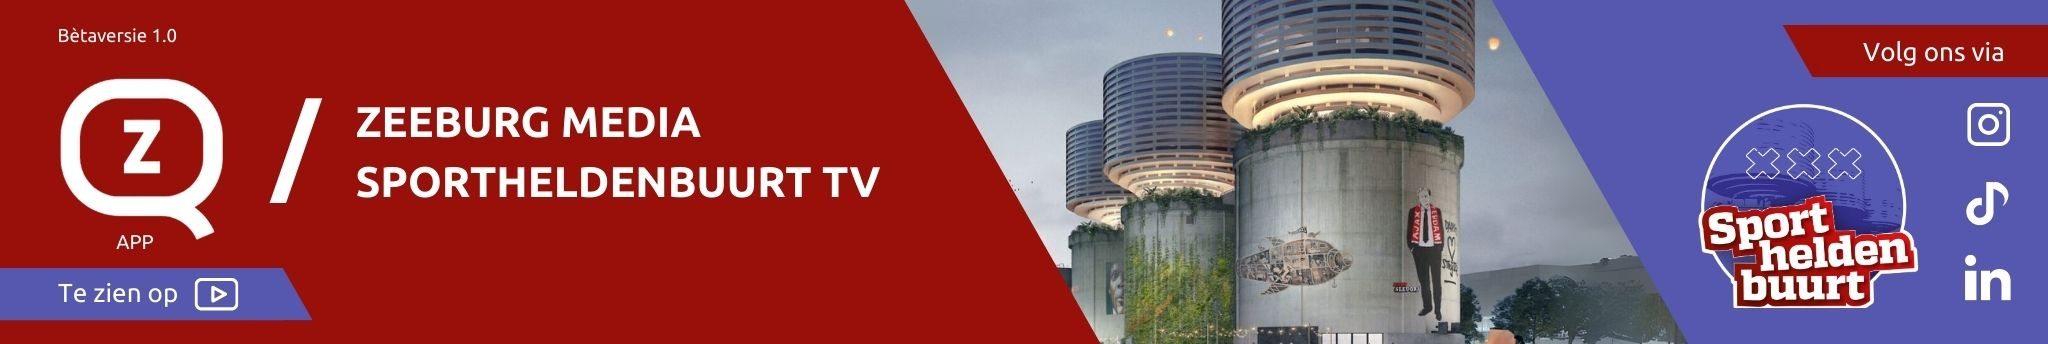
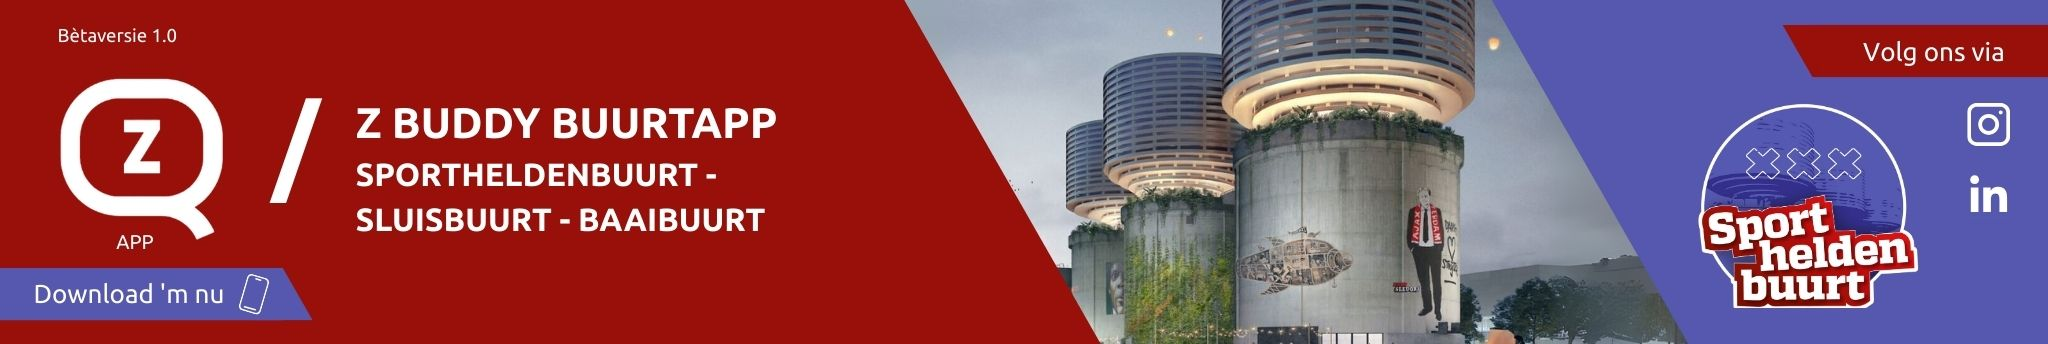
Add files via upload

diff --git a/index.html b/index.html
@@ -3,7 +3,7 @@
 <head>
   <meta charset="UTF-8">
   <meta name="viewport" content="width=device-width, initial-scale=1">
-  <title>Dé lokale TV zender van Zeeburgereiland</title>
+  <title>Dé lokale zender van Zeeburgereiland. Z Buddy!</title>
   <link rel='stylesheet'href='style2.css'/>
   <link rel="icon" href="favicon.png" type="image/x-icon">
   <link rel="preconnect" href="https://fonts.googleapis.com">
@@ -17,7 +17,7 @@
     <div id="brxe-kotuiy" class="brxe-container">
       <div class="brxe-text text--600 text--xs">
         <p style="text-align: center;">
-          <span style="color: #ffffff;">Dé lokale TV zender van Zeeburgereiland – Zeeburg Media | Sportheldenbuurt | Jouw buurt, jouw verhaal</span>
+          <span style="color: #ffffff;">Dé lokale zender van Zeeburgereiland - Z Buddy Buurtapp | Sportheldenbuurt - Sluisbuurt - Baaibuurt | Jouw buurt. Jouw haal. In je broekzak.</span>
         </p>
       </div>
     </div>
@@ -56,7 +56,7 @@
 
 
 <figure id="brxe-obiwtt" class="brxe-image tag"><a class="tag" href="#" target="_blank">
-<img width="300" height="300" src="logo2.png" class="css-filter size-full" alt="" decoding="async" srcset="logo2.png 300w, logo2.png 150w" sizes="(max-width: 300px) 100vw, 300px" /></a></figure></div>
+<img width="300" height="300" src="zeeburg.png" class="css-filter size-full" alt="" decoding="async" srcset="zeeburg.png 300w, zeeburg.png 150w" sizes="(max-width: 300px) 100vw, 300px" /></a></figure></div>
 
 
 
@@ -75,32 +75,8 @@
 </div>
 </section>
 
-<section id="brxe-xiohsk" class="">
-<div class="grid-buurt">
-<div class="fade-in">
-<h3 id="brxe-oedqow" class="brxe-heading">BuurtBites</h3>
-<figure class="afbeelding">
-<img src="buurtbites.jpg" class=""><figcaption>Ontdek op Zeeburgereiland diverse sfeervolle eetgelegenheden waar je kunt genieten van heerlijke, verse gerechten met uitzicht op het water.</figcaption>
-</figure></div>
-
-<div class="fade-in">
-<h3 id="brxe-xgcala" class="brxe-heading">Creatief Zeeburg</h3><figure class="afbeelding">
-<img src="creatief.jpg" class=""><figcaption>Zeeburg bruist van creativiteit met lokale makers, kunstprojecten en vernieuwende initiatieven op elke straathoek.</figcaption>
-</figure></div>
-
-<div class="fade-in">
-<h3 id="brxe-rcjvzu" class="brxe-heading">BuurtPartners</h3>
-<figure class="afbeelding">
-<img src="Buurtpartners.jpg" class=""><figcaption>Buurtpartners op Zeeburgereiland werken samen aan een sterke, betrokken en levendige wijk voor iedereen.</figcaption>
-</figure></div>
-
-<div class="fade-in">
-<h3 id="brxe-rcjvzu" class="brxe-heading">Zeeburg by Night</h3>
-<figure class="afbeelding">
-<img src="night.jpg" class=""><figcaption>Zeeburg by night kent gezellige uitgaansplekken.
-</figcaption>
-</figure>
-</div>
+<section id="brxe-xiohsk" class="flyer">
+<img src="flyer.jpg">
 </section>
 
 <section id="brxe-nfbvse" class="brxe-section">
@@ -117,7 +93,7 @@
 </li>
 <li class="brxe-block fr-logo-charlie">
   <figure class="brxe-image fr-logo-charlie__logo tag">
-    <img src="sweco.png" class="size-full" alt="" decoding="async" />
+    <img src="silos.svg" class="size-full" alt="" decoding="async" />
   </figure>
 </li>
 <li class="brxe-block fr-logo-charlie">
@@ -139,7 +115,7 @@
       <div id="brxe-cubgpp" class="brxe-block">
         <h3 id="brxe-rcjvzu" class="brxe-heading">Tip voor de redactie?</h3>
         <div class="text-layout">
-          <a href="mailto:redactie@zeeburgmedia.nl" aria-label="Mail">redactie@zeeburgmedia.nl</a>
+          <a href="mailto:redactie@zeeburgereiland.app" aria-label="Mail">redactie@zeeburgereiland.app</a>
           <p class="top-padding">Volg ons op social media</p>
           <a href="https://www.facebook.com/groups/zeeburgereilandbewoners" alt="facebook" target="_blank"><img src="facebook.svg" alt="socials" class="socials"></a>
           <a href="https://www.amsterdam.nl/" target="_blank" alt="Amsterdam"><img src="amsterdam.png" alt="Gemeente Amsterdam" class="socials"></a>
@@ -147,25 +123,6 @@
           <img src="youtube.svg" alt="socials" class="socials">
           <a href="https://www.linkedin.com/company/stadsdeel-zeeburg/?originalSubdomain=nl" target="_blank" alt="linkedin"><img src="linkedin.svg" alt="socials" class="socials"></a>
         </div>
-      </div>
-    </div>
-    <div class="brxe-block fade-in">
-      <div id="brxe-cubgpp" class="brxe-block">
-        <h3 id="brxe-rcjvzu" class="brxe-heading">Buurtagenda</h3>
-        <ul class="text-layout buurtagenda">
-          <li>
-            <h4>Yin by Jen Yogales</h4>
-            <p class="locatie">15 september</p>
-          </li>
-          <li>
-            <h4>Yin by Jen Yogales</h4>
-            <p class="locatie">16 september</p>
-          </li>
-          <li>
-            <h4>Yin by Jen Yogales</h4>
-            <p class="locatie">22 september</p>
-          </li>
-        </ul>
       </div>
     </div>
   </div>

diff --git a/style2.css b/style2.css
@@ -11648,6 +11648,11 @@ body:where(.bricks-is-frontend), body:where(:not(.bricks-is-frontend)) {
   max-width: 100%;
 }
 
+.flyer{
+  padding-left: 30%;
+  padding-right: 30%
+}
+
 /* :root, .color-scheme--main, .color-scheme--alt .color-scheme--alt {
   --action: black;
 }
@@ -11864,4 +11869,13 @@ margin-top: 3vh !important;
 
 footer div {
 margin-left: 20vw !important;
+}
+
+
+@media (max-width: 667px)
+{
+.flyer{
+  padding-left: 0%;
+  padding-right: 0%
+}
 }
